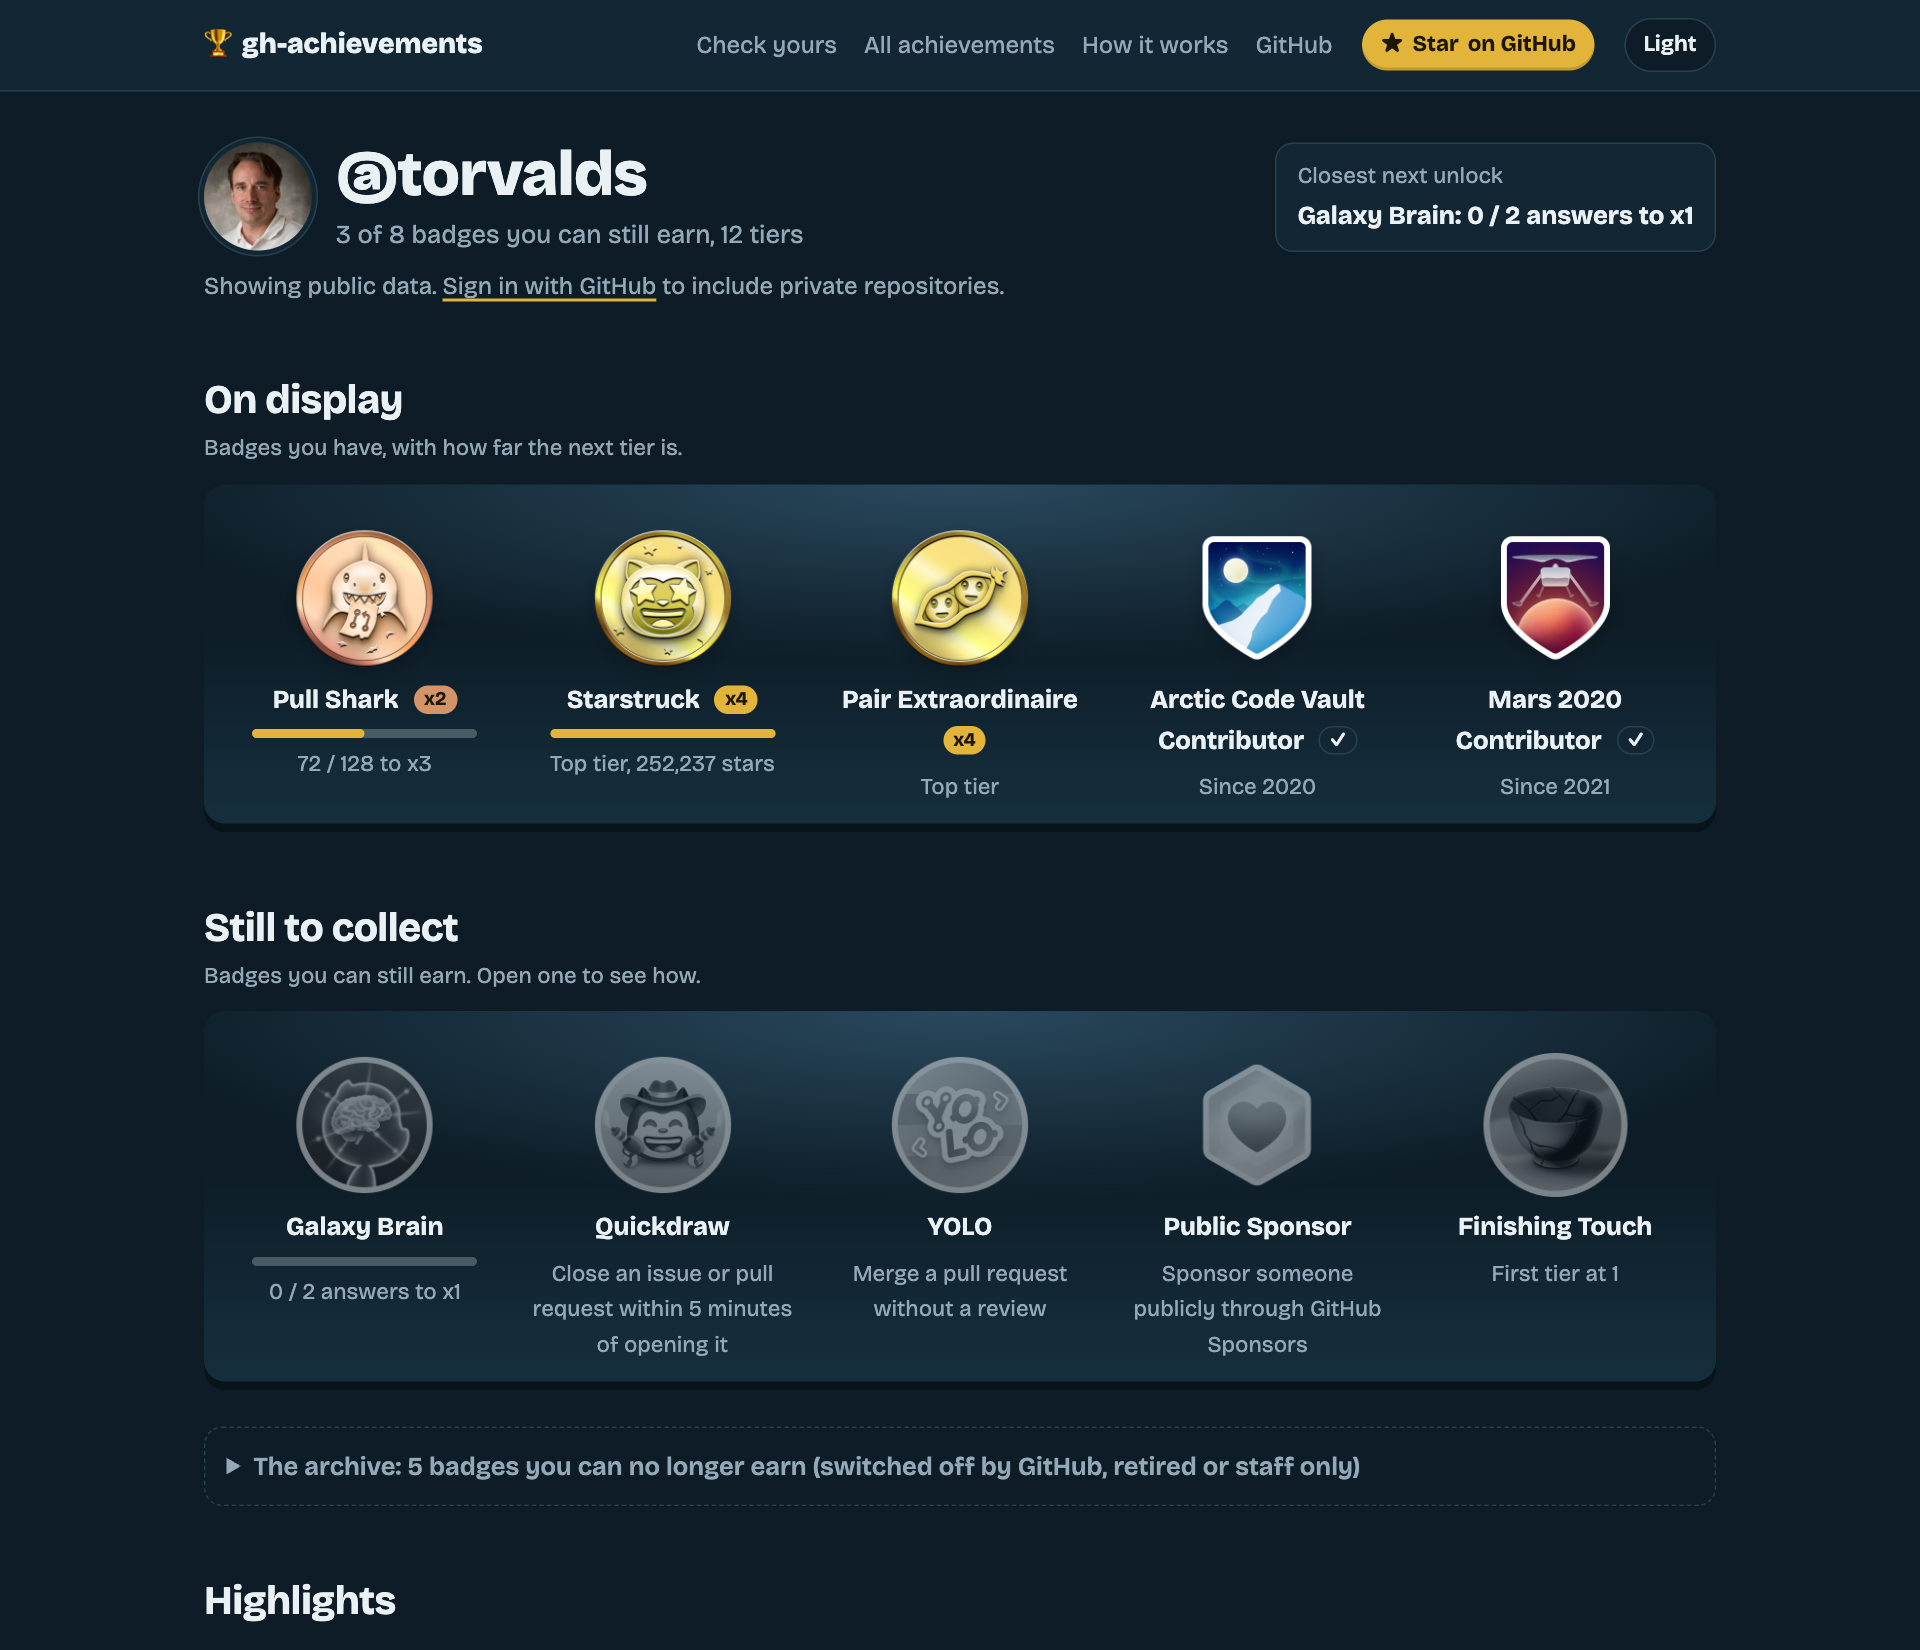
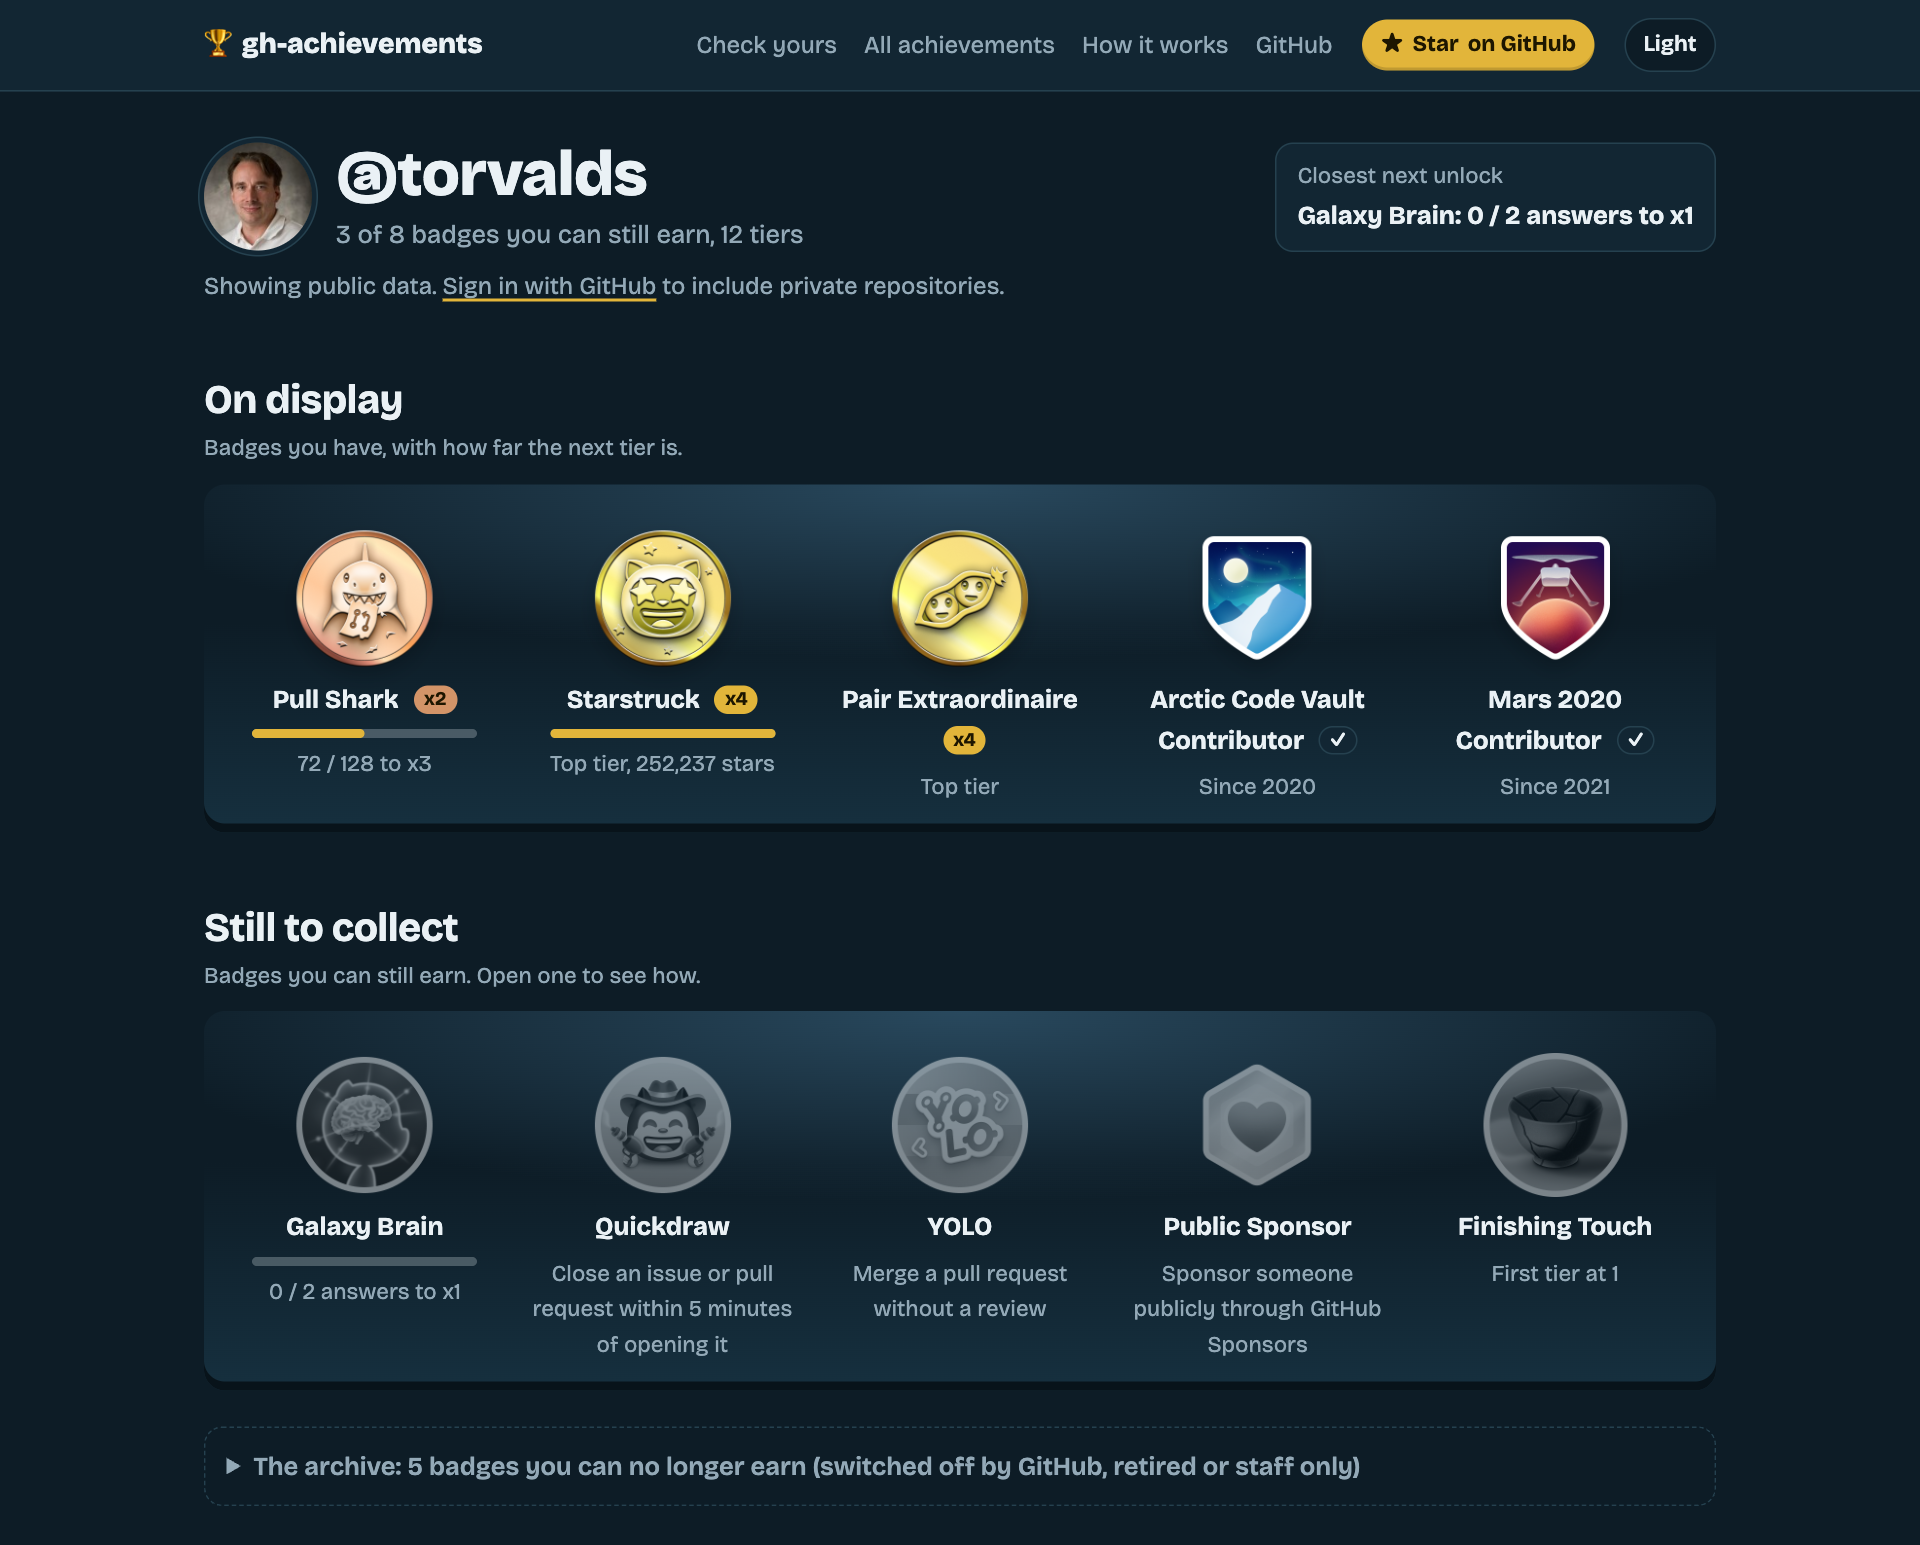
docs: keep the project definition and trust facts in the README

diff --git a/cmd/gendocs/readme_test.go b/cmd/gendocs/readme_test.go
@@ -160,6 +160,8 @@ func TestReadme_showsTheSiteAndBothWaysToCheck(t *testing.T) {
 		"## Two ways to check", "## What it shows", "gh achievements --all",
 		"(docs/demo.svg)", "docs/check-button.svg",
 		"https://github.com/nmloc/gh-achievements/stargazers",
+		"is a [GitHub CLI](https://cli.github.com/) extension", "**No stored token.**",
+		"until an admin approves gh-achievements",
 	} {
 		if !strings.Contains(readme, want) {
 			t.Errorf("README lacks %q", want)

diff --git a/README.md b/README.md
@@ -41,15 +41,18 @@
 | On the web | In your terminal |
 |---|---|
 | **[gh-achievements.vercel.app/check](https://gh-achievements.vercel.app/check/)** | `gh extension install nmloc/gh-achievements` then `gh achievements` |
-| Type any username, or sign in with GitHub to include private repositories. The token is used for one check and revoked at once; nothing is stored. | Reuses your `gh auth login`, so it counts everything that login can see, including organizations that restrict third-party apps. |
+| Type any username, or sign in with GitHub to include private repositories. The token is used for one check and revoked at once; nothing is stored. Organizations that restrict third-party apps hide their private repositories until an admin approves gh-achievements. | Reuses your `gh auth login`, so it counts everything that login can see, including organizations that restrict third-party apps. |
 
 ![Terminal output of gh achievements torvalds: on display Pull Shark x2 at 72 / 128 to x3 (calibrated), Starstruck at the top tier with 252,192 stars, Pair Extraordinaire at the top tier, the retired Arctic Code Vault and Mars 2020 badges; still to collect Galaxy Brain at 0 / 2 answers, Quickdraw, YOLO, Public Sponsor and Finishing Touch](docs/demo.svg)
 
 ## What it shows
 
+`gh-achievements` is a [GitHub CLI](https://cli.github.com/) extension and a website that list all GitHub profile achievements (Pull Shark, Starstruck, Pair Extraordinaire, Galaxy Brain, Quickdraw, YOLO, Public Sponsor, Finishing Touch and the retired ones) and show your tier and progress to the next one.
+
 - **Every badge, not just yours.** All 15 known achievements (8 earnable, 2 switched off by GitHub, 2 retired, 3 for GitHub staff) and 6 profile highlights such as Pro.
 - **How far to the next tier.** Your count against the next threshold, such as `72 / 128 to x3` for Pull Shark.
 - **Checked against GitHub.** Tiers, unlock dates and milestones come from GitHub's own badge history, and every number is labelled `official`, `calibrated` or `counted`.
+- **No stored token.** The CLI reuses your `gh auth login` and talks only to GitHub. The web checker signs in with GitHub, uses the token for one check and revokes it.
 
 ## Install
 
